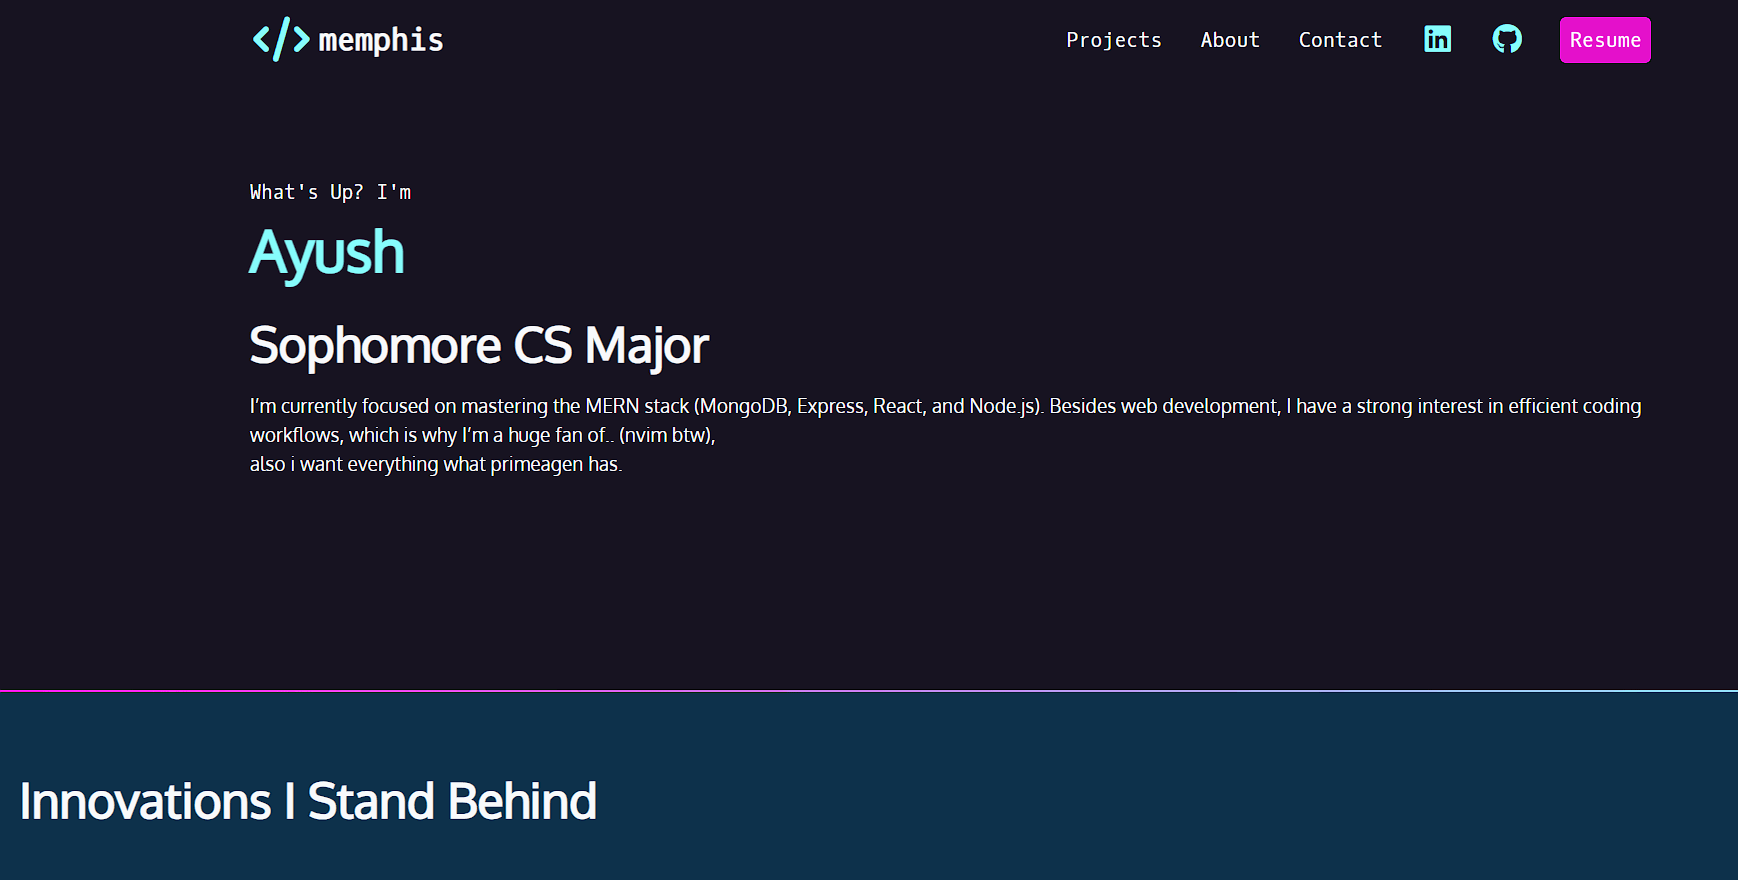
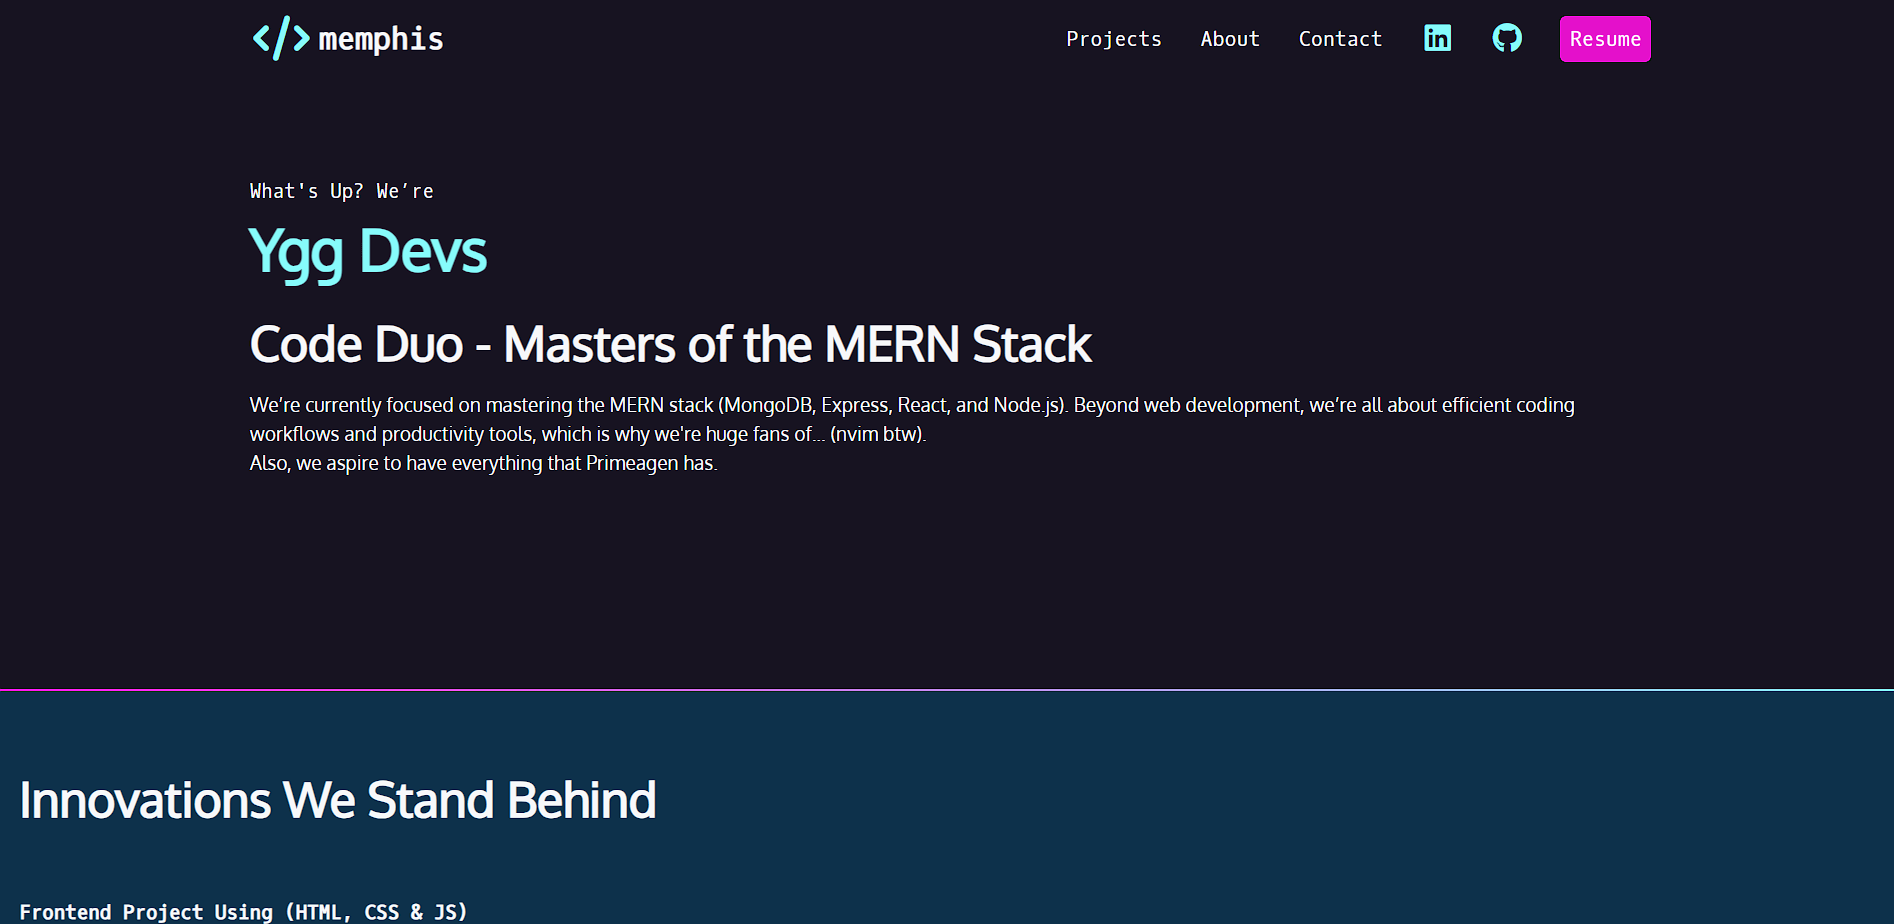
push

diff --git a/index.html b/index.html
@@ -1,9 +1,9 @@
 <!DOCTYPE html>
-<html lang="en">
+    <html lang="en">
 <head>
     <meta charset="UTF-8">
     <meta name="viewport" content="width=device-width, initial-scale=1.0">
-    <title>portfolio/neoayus</title>
+    <title>portfolio/yggdevs</title>
  <!-- css Link  -->
     <link rel="stylesheet" href="style.css">
  <!-- font-awesome CDN -->
@@ -28,10 +28,11 @@
 
  <!-- introduction  -->
     <section id="intro">
-        <p class="name">What's Up? I'm<span>Ayush</span></p>
-        <h2>Sophomore CS Major</h2>
-        <p>I’m currently focused on mastering the MERN stack (MongoDB, Express, React, and Node.js). Besides web development, I have a strong interest in efficient coding workflows, which is why I’m a huge fan of.. (nvim btw), <br>also i want everything what primeagen has. </p>
+        <p class="name">What's Up? We’re<span>Ygg Devs</span></p>
+        <h2>Code Duo - Masters of the MERN Stack</h2>
+        <p>We’re currently focused on mastering the MERN stack (MongoDB, Express, React, and Node.js). Beyond web development, we’re all about efficient coding workflows and productivity tools, which is why we're huge fans of... (nvim btw). <br>Also, we aspire to have everything that Primeagen has.
     </section>
+
 
  <!-- Separator  -->
     <div class="gradient"></div>
@@ -40,14 +41,14 @@
     <div class="section-dkblue">
         <section id="projects">
                 <!-- instructions in JavaScript block -->
-            <h2>Innovations I Stand Behind</h2>
+            <h2>Innovations We Stand Behind</h2>
 
          <!-- LATEST PROJECT  -->
             <article class="reverse">
                 <div class="text">
                     <h4>Frontend Project Using (HTML, CSS & JS) </h4>
                     <h3>Apple.com CLone </h3>
-                    <p class="blackbox">This project is a responsive web clone of the official Apple website, developed using HTML, CSS, and JavaScript. The goal was to recreate the look and feel of the Apple homepage, showcasing products with elegant design and clean UI elements.</p>
+                    <p class="blackbox">This project is a responsive web clone of the official Apple website, developed using HTML, CSS, and JavaScript. The goal was to recreate the look and feel of the Apple homepage, showcasing products with elegant design and clean UI elements. <a href="https://memphis-clone-dot-com.netlify.app/"> Go Live. </a>
                     <h4>Technologies used include:</h4>
                     <ul>
                         <li>HTML</li>
@@ -64,7 +65,7 @@
                 <div class="text">
                     <h4>Latest Project</h4>
                     <h3>Personal Portfolio</h3>
-                    <p class="blackbox">Memfolio is a personal portfolio website designed to showcase my work, skills, and journey as a Computer Science student. Built using HTML, CSS, and JavaScript, this project demonstrates clean design principles and effective use of front-end technologies.</p>
+                    <p class="blackbox">Memfolio is a personal portfolio website designed to showcase my work, skills, and journey as a Computer Science student. Built using HTML, CSS, and JavaScript, this project demonstrates clean design principles and effective use of front-end technologies. <a href="https://memfolio.netlify.app/">Go live. </a>  </p> 
                     <h4>Technologies used include:</h4>
                     <ul>
                         <li>HTML</li>
@@ -81,7 +82,7 @@
                 <div class="text">
                     <h4>JS Project</h4>
                     <h3>Weather App wih API</h3>
-                    <p class="blackbox">WeatherApp.js is a simple, interactive weather application built using HTML, CSS, and JavaScript. The app allows users to input any location and get real-time weather information, including temperature, weather conditions, and more.It fetches data from the OpenWeather API and displays it in a clean, user-friendly interface. The application also demonstrates skills in API integration, DOM manipulation, and responsive design.</p>
+                    <p class="blackbox">WeatherApp.js is a simple, interactive weather application built using HTML, CSS, and JavaScript. The app allows users to input any location and get real-time weather information, including temperature, weather conditions, and more.It fetches data from the OpenWeather API and displays it in a clean, user-friendly interface. The application also demonstrates skills in API integration, DOM manipulation, and responsive design. <a href="https://memphis-weather-app.netlify.app/"> Go Live. </a></p>
                     <h4>Technologies used include:</h4>
                     <ul>
                         <li>HTML</li>
@@ -98,7 +99,7 @@
                 <div class="text">
                     <h4>Frontend Project</h4>
                     <h3>Netflix Clone (using HTML & CSS)</h3>
-                    <p class="blackbox">This project is a Static clone of the Netflix homepage, developed using HTML, CSS. It aims to replicate the visual layout and functionality of Netflix, with a focus on front-end design Only.</p>
+                    <p class="blackbox">This project is a Static clone of the Netflix homepage, developed using HTML, CSS. It aims to replicate the visual layout and functionality of Netflix, with a focus on front-end design Only. <a href="https://memphisdotcom-netf.netlify.app/"> Go Live. </a></p>
                     <h4>Technologies used include:</h4>
                     <ul>
                         <li>HTML</li>
@@ -113,7 +114,7 @@
                 <div class="text">
                     <h4>Frontend Project</h4>
                     <h3>Hulu Clone (using HTML & CSS)</h3>
-                    <p class="blackbox">This project is a static clone of the Hulu homepage, developed using HTML and CSS. The goal of this project is to replicate the visual layout of Hulu with a focus on front-end design elements.</p>
+                    <p class="blackbox">This project is a static clone of the Hulu homepage, developed using HTML and CSS. The goal of this project is to replicate the visual layout of Hulu with a focus on front-end design elements. <a href="https://memphisdotcom-hulu.netlify.app/">Go Live.</a></p>
                     <h4>Technologies used include:</h4>
                     <ul>
                         <li>HTML</li>
@@ -128,7 +129,7 @@
                 <div class="text">
                     <h4>Frontend Project</h4>
                     <h3>Amazon Clone (using HTML & CSS)</h3>
-                    <p class="blackbox">This project is a static clone of the Amazon homepage, created using HTML and CSS. The aim of this project is to replicate the core visual elements of Amazon’s homepage with a focus on layout, design, and responsiveness.</p>
+                    <p class="blackbox">This project is a static clone of the Amazon homepage, created using HTML and CSS. The aim of this project is to replicate the core visual elements of Amazon’s homepage with a focus on layout, design, and responsiveness. <a href="https://memphisdotcom-amazon.netlify.app/">Go Live.</a></p>
                     <h4>Technologies used include:</h4>
                     <ul>
                         <li>HTML</li>
@@ -148,9 +149,9 @@
  <!-- contact me  -->
     <div class="section-plum">
         <section id="contact">
-            <h2>Contact Me</h2>
-            <p>Feel free to reach out! Whether you have questions, want to collaborate, or simply want to connect, I'm always open to new opportunities. </p>
-            <p> <a href="mailto:ayus43@outlook.com" class="button">Email-Me</a></p>
+            <h2>Contact Us</h2>
+            <p>Feel free to reach out! Whether you have questions, want to collaborate, or simply want to connect, we are always open to new opportunities.</p>
+            <p> <a href="mailto:ayus43@outlook.com" class="button">Email-Me</a> </p>
         </div>
     </div>
 
@@ -159,14 +160,14 @@
     
  <!-- footer  -->
     <footer>
-        <h2>sush semwal &bull; cs major @ gehu</h2>
+        <h2>Ygg Devs  &bull; cs majors @ gehu</h2>
         <ul>
             <li><a href="https://www.linkedin.com/in/ayush-semwal-602183285/"><i class="fa-brands fa-linkedin" aria-hidden="true"></i></a> </li>
             <li><a href="https://github.com/neoayus"><i class="fa-brands fa-github"></i></a></li>
             <li><a href="mailto:ayus43@outlook.com"><i class="fa-solid fa-envelope"></i></a></li>
         </ul>
      <!-- copyright statement -->
-        <p><small>&copy; memphis 2k24. All Right Reserved.</small></p>
+        <p><small>&copy; yggdevs 2k24. All Right Reserved.</small></p>
     </footer>
 </body>
 </html>

diff --git a/about.html b/about.html
@@ -39,7 +39,7 @@
             <article >
                 <div class="text">
                     <h3>Behind the Code</h3>
-                    <p class="blackbox">Hey! I'm Ayush, a sophomore Computer Science major. Currently diving deep into the MERN stack, I’m always exploring new ways to bring ideas to life through code. Whether it's customizing my workflow with Neovim or creating responsive web applications, I strive to learn, improve, and innovate with every project. This space is a reflection of my journey in tech, my projects, and the things that inspire me every day. Let’s build something amazing together!</p>
+                    <p class="blackbox">Hey! We’re Ygg Devs, a duo of passionate developers. Currently diving deep into the MERN stack, we’re always exploring new ways to bring ideas to life through code. Whether it's customizing our workflow with Neovim or creating responsive web applications, we strive to learn, improve, and innovate with every project. This space reflects our journey in tech, our projects, and the things that inspire us every day. Let’s build something amazing together!</p>
                     <h4>My favourite Technologies includes:</h4>
                     <ul>
                         <li>NVIM</li>
@@ -61,14 +61,14 @@
     
  <!-- footer  -->
     <footer>
-        <h2>sush semwal &bull; cs major @ gehu</h2>
+        <h2>Ygg Devs &bull; cs majors @ gehu</h2>
         <ul>
             <li><a href="https://www.linkedin.com/in/ayush-semwal-602183285/"><i class="fa-brands fa-linkedin" aria-hidden="true"></i></a> </li>
             <li><a href="https://github.com/neoayus"><i class="fa-brands fa-github"></i></a></li>
             <li><a href="mailto:ayus43@outlook.com"><i class="fa-solid fa-envelope"></i></a></li>
         </ul>
      <!-- copyright statement -->
-        <p><small>&copy; memphis 2k24. All Right Reserved.</small></p>
+        <p><small>&copy; yggdevs 2k24. All Right Reserved.</small></p>
     </footer>
 </body>
 </html>
